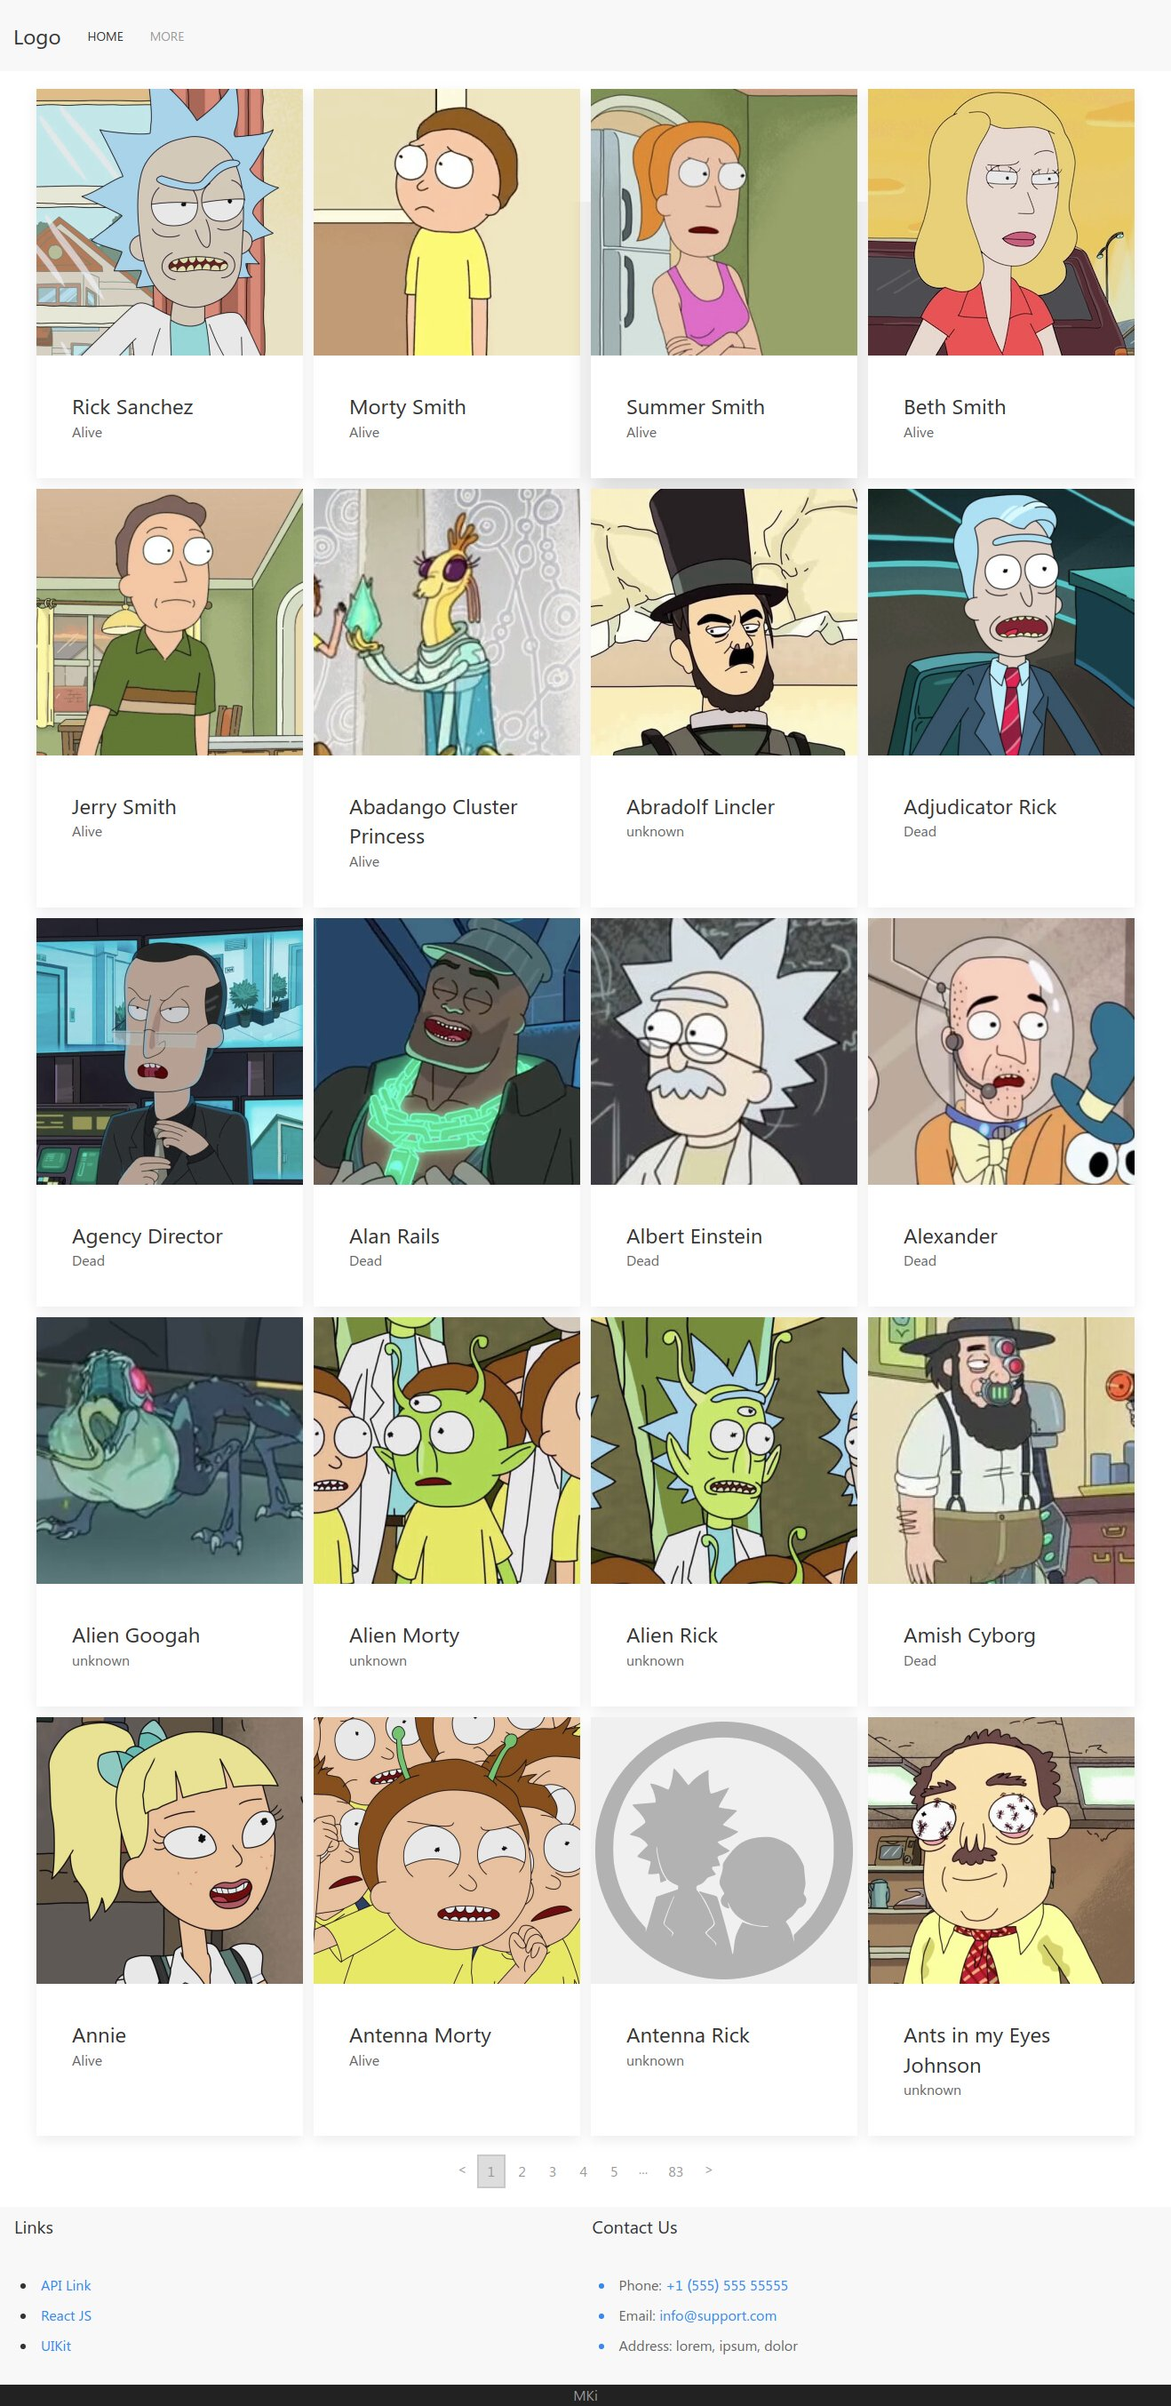
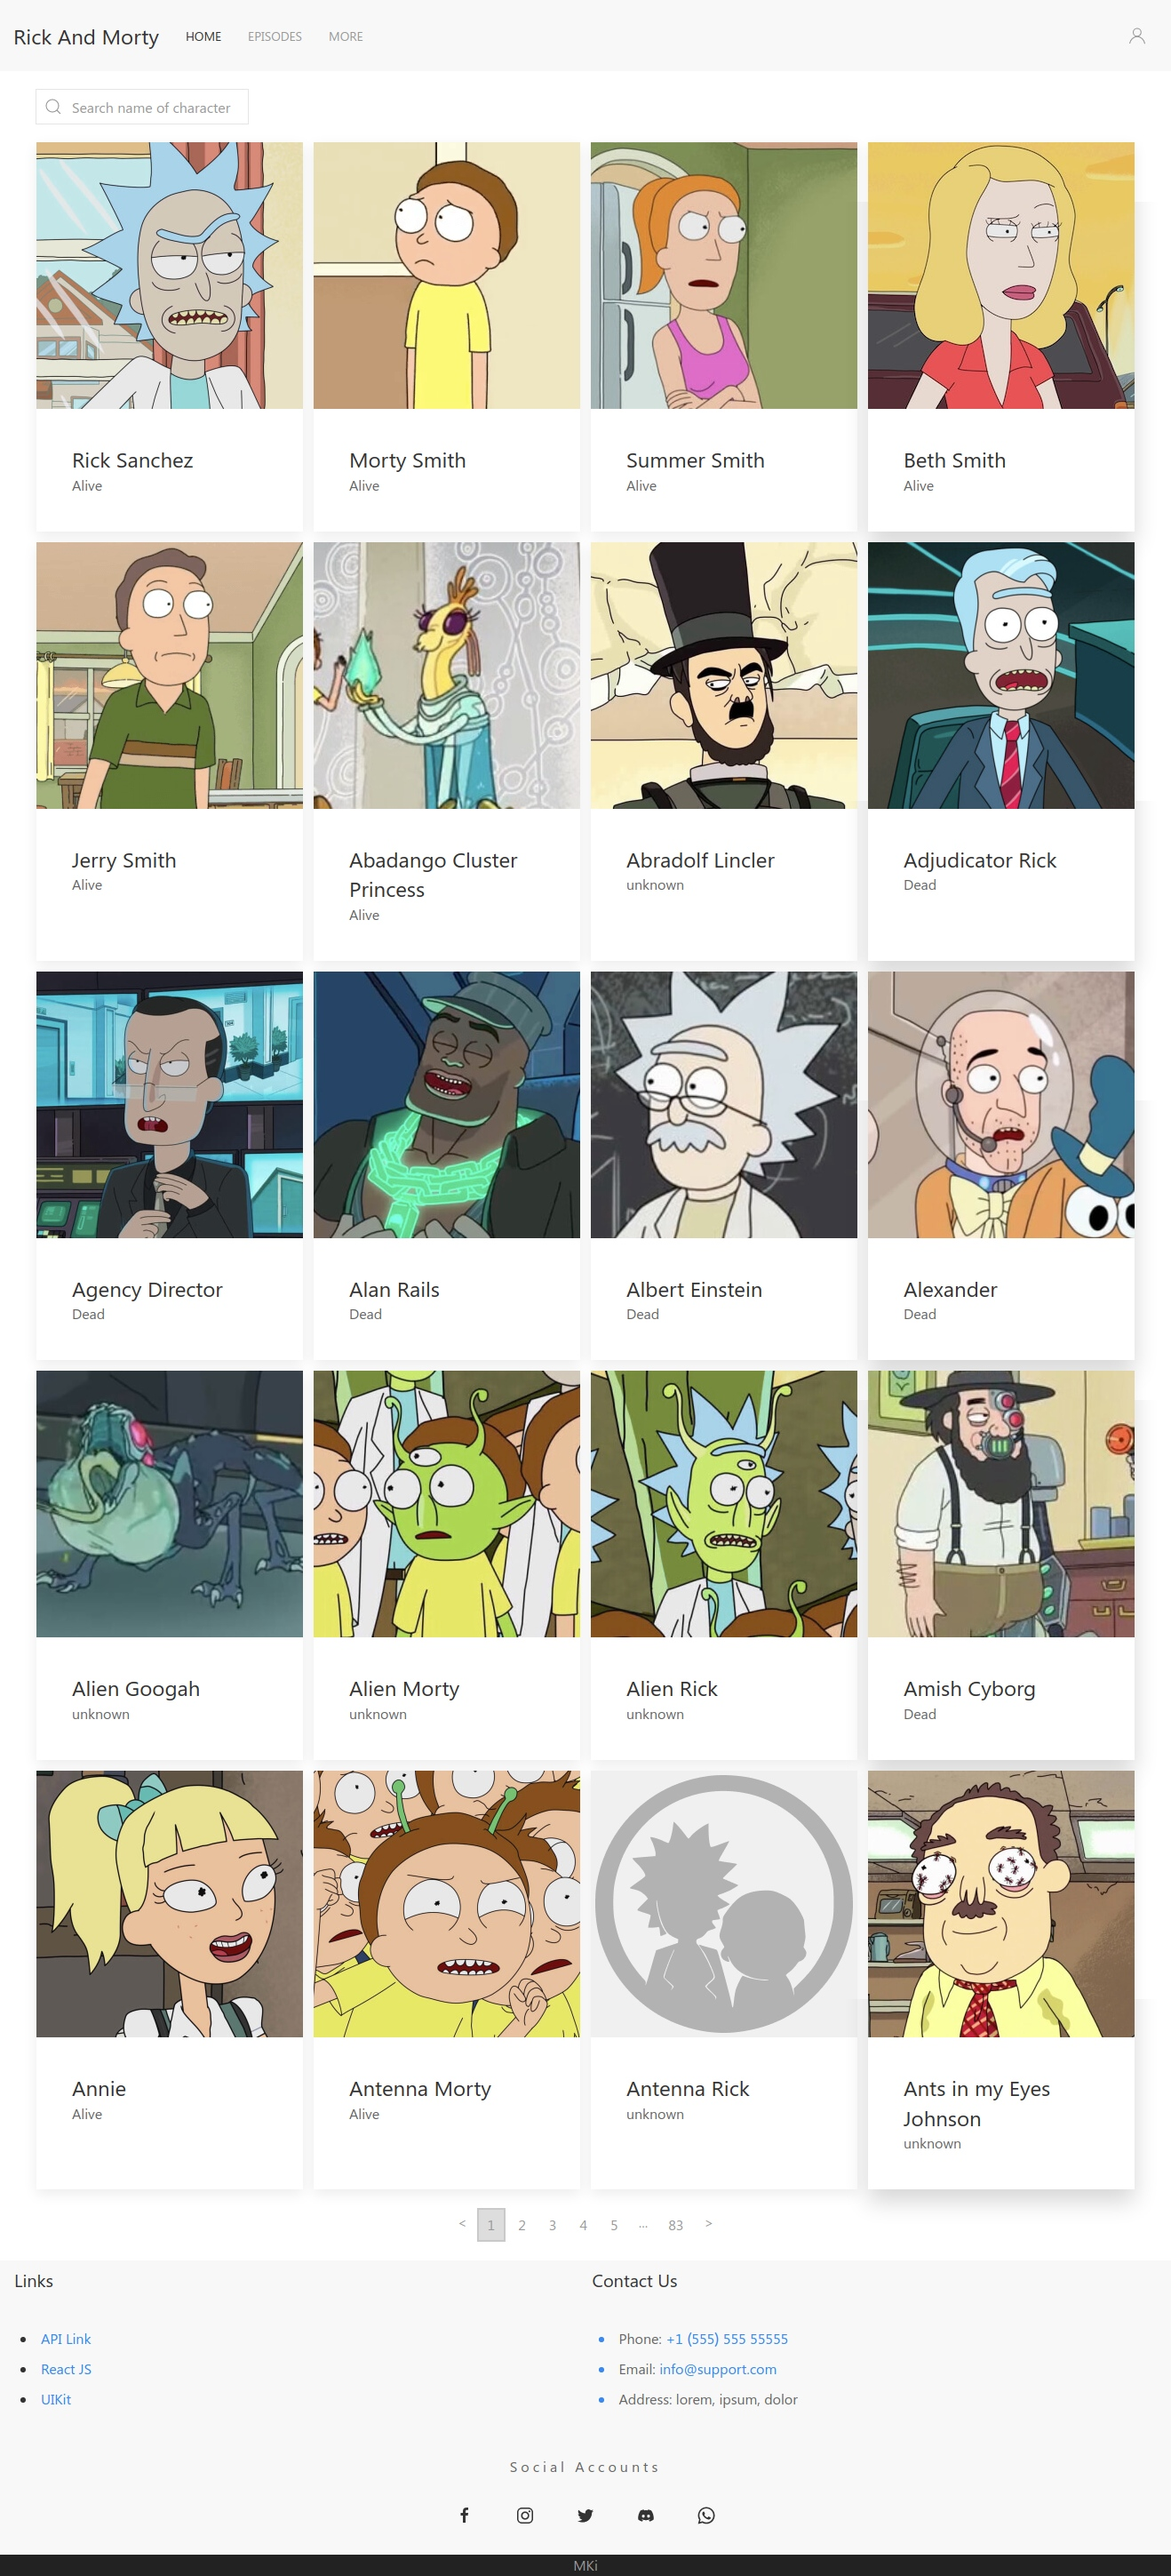
Added new screenshots and model, error, empty page components

diff --git a/src/components/home/index.js b/src/components/home/index.js
@@ -1,5 +1,5 @@
 import * as React from 'react';
-import { useMemo, useState, useEffect } from 'react';
+import { useState, useEffect } from 'react';
 import { useNavigate } from 'react-router-dom';
 import { useQuery } from '@apollo/client';
 import { queries } from '../../utils';
@@ -7,24 +7,29 @@ import _ from 'lodash';
 
 import List from './list';
 import Card from '../card';
+import Error from '../error';
 
 const Home = (props) => {
     const navigate = useNavigate();
     const [page, setPage] = useState(0);
     const [searchName, setSearchName] = useState('');
     const { loading, error, data } = useQuery(queries.characters, { variables: { page, ...searchName !== '' ? { filter: { name: searchName } } : {} } });
-    const [characters, setCharacters] = useState({ results: [], total: 0 });
+    const [characters, setCharacters] = useState({ results: [], total: 0, error: false });
     useEffect(() => {
-        if (!loading && !error) {
+        if (error){
+            setCharacters({
+                results: [],
+                total: 0,
+                error: true,
+            });
+        } else if (!loading && !error) {
             setCharacters({
                 results: data.characters.results,
                 total: data.characters.info.count
             })
         }
     }, [data]);
-    // return (
-    //     <List style={{ flex: 1, display: 'flex', lexDirection: 'column', height: '100%' }} height="100%" loading={loading} renderItem={(item, index) => <Card hoverable header={item.name} onClick={() => navigate('/' + item.id)} content={item.status} imageSrc={item.image} key={index}>{item}</Card>} items={characters.results} onPageChange={setPage} current={page} totalCount={characters.total} />
-    // )
+
     return (
         <div style={{ flex: 1, display: 'flex', flexDirection: 'column', height: '100%' }}>
             <div class="uk-margin uk-align-right">
@@ -36,7 +41,9 @@ const Home = (props) => {
             </div>
 
 
-            <List style={{ flex: 1, display: 'flex', flexDirection: 'column', height: '100%' }} height="100%" loading={loading} renderItem={(item, index) => <Card hoverable header={item.name} onClick={() => navigate('/' + item.id)} content={item.status} imageSrc={item.image} key={index}>{item}</Card>} items={characters.results} onPageChange={setPage} current={page} totalCount={characters.total} />
+            {characters.error ? (<Error />) :(
+                <List style={{ flex: 1, display: 'flex', flexDirection: 'column', height: '100%' }} height="100%" loading={loading} renderItem={(item, index) => <Card hoverable header={item.name} onClick={() => navigate('/' + item.id)} content={item.status} imageSrc={item.image} key={index}>{item}</Card>} items={characters.results} onPageChange={setPage} current={page} totalCount={characters.total} />
+            )}
             <a data-uk-totop style={{ position: 'fixed', bottom: 0, right: 0, margin: '16px' }}></a>
         </div>
     )

diff --git a/src/components/header/index.js b/src/components/header/index.js
@@ -1,17 +1,23 @@
 import * as React from 'react';
+import { useState } from 'react';
 import { Link } from 'react-router-dom';
+
+import Modal from '../modal';
 
 const Header = ({
     className,
     style,
 }) => {
+    const [showLogin, setShowLogin] = useState(false);
+
+
     return (
         <nav className={`uk-navbar-container uk-margin ${className}`} style={style} data-uk-navbar>
             <a className="uk-navbar-item uk-logo">Rick And Morty</a>
             <div className="uk-navbar-left">
                 <ul className="uk-navbar-nav">
                     <li className="uk-active"><Link to="/">Home</Link></li>
-                    <li ><a>Episodes</a></li>
+                    <li ><Link to={'/episodes'}>Episodes</Link></li>
                     <li>
                         <a href="#">More</a>
                         <div className="uk-navbar-dropdown">
@@ -27,10 +33,31 @@ const Header = ({
             <div className="uk-navbar-right">
                 <ul className='uk-navbar-nav'>
                     <li>
-                        <a><span className='uk-icon-button' data-uk-icon="user"></span></a>
+                        <button onClick={() => setShowLogin(true)} className='uk-icon-button uk-margin-right' data-uk-icon="user"></button>
                     </li>
                 </ul>
             </div>
+
+            <Modal style={{ width: '' }} title='Login' onClose={() => setShowLogin(false)} show={showLogin} footer={<button className='uk-button uk-align-center uk-button-primary' onClick={console.log}>Login</button>}>
+                <form className='uk-form-stacked'>
+                    <div className="uk-margin">
+                        <label className='uk-form-label'>Username</label>
+                        <div className="uk-inline uk-width-1-1">
+                            <span className="uk-form-icon" data-uk-icon="icon: user"></span>
+                            <input className="uk-input" type="text" />
+                        </div>
+                    </div>
+
+                    <div className="uk-margin">
+                        <label className='uk-form-label'>Passowrd</label>
+                        <div className="uk-inline uk-width-1-1">
+                            <span className="uk-form-icon" data-uk-icon="icon: lock"></span>
+                            <input className="uk-input" type="password" />
+                        </div>
+                    </div>
+
+                </form>
+            </Modal>
         </nav>
     )
 }

diff --git a/src/components/modal/index.js b/src/components/modal/index.js
@@ -1,0 +1,51 @@
+import React, { useEffect, useRef } from 'react';
+import UIKit from 'uikit';
+
+const Modal = ({
+    id,
+    showClose = true,
+    title,
+    className,
+    style,
+    footer,
+    closeButton,
+    children,
+    onClose,
+    show = false,
+}) => {
+    const modalRef = useRef();
+    const classes = [];
+    
+    classes.push(className);
+
+    let defaultClose = <button className="uk-modal-close-default" type="button" data-uk-close></button>;
+    if (closeButton) {
+        defaultClose = closeButton;
+    }
+
+    useEffect(() => {
+        modalRef.current.addEventListener('hidden',() => onClose())
+    }, []);
+
+    useEffect(() => {
+        if (show) {
+            UIKit.modal(modalRef.current).show();
+        } else {
+            UIKit.modal(modalRef.current).hide();
+        }
+    }, [show]);
+    
+    return (
+        <div id={id} ref={modalRef} data-uk-modal className={classes.join(' ')} style={style}>
+            <div className="uk-modal-dialog">
+                {showClose && defaultClose}
+                {title && <div className="uk-modal-header">
+                    <h2 className="uk-modal-title">{title}</h2>
+                </div>}
+                <div className="uk-modal-body">{children}</div>
+                {footer && <div className="uk-modal-footer">{footer}</div>}
+            </div>
+        </div>
+    )
+}
+export default Modal;

diff --git a/src/components/home/list.js b/src/components/home/list.js
@@ -19,7 +19,7 @@ const List = ({
     return (
         <div style={{ minHeight: '100%', ...style }} className={`uk-flex uk-flex-column uk-flex-middle ${className}`}>
             <div style={{ height, width }} className="uk-flex uk-flex-wrap uk-flex-1 uk-flex-center uk-flex-wrap-around" style={{ gap: '12px' }} data-uk-scrollspy="cls: uk-animation-fade; target: .uk-card; delay: 50; repeat: false">
-                {loading ? <Loading color={'#555555'} /> : items.length>0 ? (
+                {loading ? <Loading color={'#555555'} /> : items.length > 0 ? (
                     items.map((item, index) => renderItem(item, index))
                 ) : <Empty />}
             </div>

diff --git a/src/components/empty/index.js b/src/components/empty/index.js
@@ -1,6 +1,13 @@
 import React from 'react';
+import { Link } from 'react-router-dom';
 
 const Empty = () => (
-    <div></div>
+    <div className='uk-width-1-1 uk-height-1-1' style={{ flex: 1 }} data-uk-scrollspy="cls: uk-animation-fade; target: .empty; delay: 100">
+        <div class="uk-text-center empty">
+            <span style={{ padding: '16px', borderRadius: '50%', backgroundColor:'#55555555'}} data-uk-icon="icon: folder; ratio: 3.5"></span>
+            <h2>No Result found</h2>
+            <p>Try another page or <Link to={'/'} className='uk-button uk-button-secondary'>Go to Home</Link></p>
+        </div>
+    </div>
 )
 export default Empty;

diff --git a/src/components/error/index.js b/src/components/error/index.js
@@ -1,0 +1,12 @@
+import React from 'react';
+
+const Error = () => (
+    <div className='uk-width-1-1 uk-height-1-1' style={{ flex: 1 }} data-uk-scrollspy="cls: uk-animation-fade; target: .error; delay: 100">
+        <div class="uk-text-center error">
+            <span style={{ padding: '16px', borderRadius: '50%', backgroundColor:'#55555555'}} data-uk-icon="icon: warning; ratio: 3.5"></span>
+            <h2>Sorry, an error occured <span>&#128549;</span></h2>
+            <p>Try again later</p>
+        </div>
+    </div>
+)
+export default Error;

diff --git a/src/App.js b/src/App.js
@@ -6,6 +6,7 @@ import Header from './components/header';
 import Footer from './components/footer';
 import Home from './components/home';
 import Character from './components/character';
+import Episodes from './components/episodes';
 
 function App() {
 
@@ -15,6 +16,7 @@ function App() {
       <Routes>
         <Route path='/' element={<Home />} />
         <Route path='/:id' element={<Character />} />
+        <Route path='/episodes' element={<Episodes />} />
       </Routes>
       <Footer />
     </div>

diff --git a/src/components/episodes/index.js b/src/components/episodes/index.js
@@ -1,0 +1,7 @@
+import React from 'react';
+import Empty from '../empty';
+
+const Episodes = () => (
+    <Empty />
+);
+export default Episodes;
